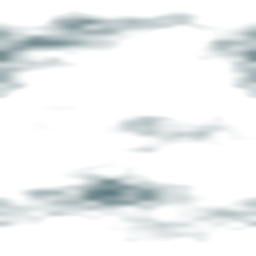
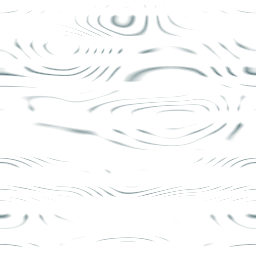
[V6.3] CP-E: il catrame rallenta sempre, e si ferma
PLAN-010 CP-E, dinamica del goo con la stella congelata.

Misurato sul fronte simulato nel motore vivo:
  overshoot oltre il muro   +62px -> 0
  scarto a riposo           +35px -> 0.00
  velocita' per quarto      [0.93,0.89,3.09,3.85] crescente
                         -> [2.89,2.13,0.68,0.10] decrescente
  determinismo              assente -> 400 campioni identici fra caricamenti

DUE CURVE, NON UNA. Correggere `tarPour` non bastava: il fronte non segue quella,
segue `poolFraction`, che applicava una SECONDA smoothstep riaccelerando a valle
cio' che a monte era stato reso decelerante. Con la sola prima correzione il
fronte accelerava lo stesso. Il test ora guarda la COMPOSIZIONE, che e' quella che
il giocatore vede.

CADUTO ANCHE IL PLATEAU. La pozza restava ferma fino a rev=0.52 e poi ripartiva, e
un plateau seguito da movimento RICHIEDE un'accelerazione: non e' una taratura da
aggiustare, e' la forma. Costo: si perde il beat «la pozza si accumula, poi cede».
Guadagno: «sempre piu' lentamente» diventa letterale, come chiesto.

La legge e' quella del flusso di gravita' viscoso (Huppert 1982, JFM 121:43-58):
`r ~ t^((3a+1)/8)`, a flusso costante esponente 1/2. Lo smorzamento passa da un
rapporto di 0.061 — gravemente sottosmorzato, il bordo suonava come gelatina — a
criticamente smorzato.

Config-first e V6.2 intatta: i valori stanno in un blocco `v63` separato, perche'
`simulation` e `timing` sono letti anche dalla V6.2 e cambiarli avrebbe mosso il
[…]

diff --git a/src/ui/idleVillage/components/destinyAstrolabeV63/engine.ts b/src/ui/idleVillage/components/destinyAstrolabeV63/engine.ts
@@ -11,7 +11,7 @@ import { tarGooConfig } from '@/balancing/config/idleVillage/tarGooConfig';
 import { buildSnapshot } from '@/ui/skillCheckWebV1/zones';
 import { solveShapeReported, rHeroNarrowAt } from '@/ui/skillCheckWebV1/coverage';
 import { createTarGooRenderer } from './tarGooRenderer';
-import { createTentacles, tickPose, buildBlobs, poolFraction,
+import { rng32, createTentacles, tickPose, buildBlobs, poolFraction,
          SAMPLES_PER_ARM } from './tentacles';
 
 export interface AstrolabeSkill { name: string; stat: number; difficulty: number; }
@@ -421,11 +421,22 @@ const easeOutBack=t=>{const c=1.7;return 1+(c+1)*Math.pow(t-1,3)+c*Math.pow(t-1,
 const smoothstep=(t,a,b)=>{ if(t<=a)return 0; if(t>=b)return 1; const m=(t-a)/(b-a); return m*m*(3-2*m); };
 /* V6.3 tar-pour curve: pooled seed → slow spread → settle, no overshoot.
    Follows an S-curve (smoothstep) so the mass has time to look heavy. */
+/* LA COLATA VISCOSA (PLAN-010 CP-E).
+   Qui c'era una smoothstep: `t^2(3-2t)`, derivata `6t(1-t)` — zero all'inizio,
+   MASSIMA a meta'. Il catrame accelerava nella prima meta' della colata, che e'
+   l'opposto di viscoso, e nessuna taratura dei tempi poteva rimediarlo perche' il
+   difetto stava nella forma della curva.
+   Ora e' la legge del flusso di gravita' viscoso (Huppert 1982, JFM 121:43-58):
+   `r ~ t^((3a+1)/8)` con volume `~ t^a`; a flusso costante (a=1) l'esponente e'
+   1/2. La derivata `~t^(-1/2)` decresce sempre: «sempre piu' lentamente» diventa
+   letterale. La derivata infinita a t=0 non produce uno scatto perche' il tetto
+   di velocita' della molla la assorbe. */
 const tarPour=t=> tarGooConfig.timing.seedReveal
-  + (1-tarGooConfig.timing.seedReveal)*(t*t*(3-2*t));
+  + (1-tarGooConfig.timing.seedReveal)*Math.pow(clamp(t,0,1),tarGooConfig.v63.pourExponent);
 const easeOutHeavy=t=>1-Math.pow(1-t,3.5);         // kept for other uses
 const easeElastic=t=>t===0?0:t===1?1:Math.pow(2,-10*t)*Math.sin((t*10-0.75)*(TAU/3))+1;
 
+const V63_STIFFNESS=tarGooConfig.v63.stiffness;
 const GOO_MS=tarGooConfig.timing.pourMs;           // V6.3: main tar pour duration
 
 function shake(kind){
@@ -864,10 +875,19 @@ const tent=createTentacles(TENT_ARMS,0x7ea1);
 let tideRim=null;
 /* buffer unico per renderer: bracci + gocce, riallocato solo se serve */
 let gooBlend=new Float32Array(AXES*SAMPLES_PER_ARM*3+64);
+/* LA DINAMICA DEL CATRAME E' DETERMINISTICA (PLAN-010 CP-E).
+   Le gocce nascevano da `Math.random`, quindi due esecuzioni con gli stessi
+   ingressi davano fronti diversi e il banco di misura non poteva sorvegliare
+   niente: un harness su un sistema non riproducibile misura il rumore.
+   Seme fisso, stesso RNG gia' usato dai tentacoli. Il resto del motore — moti,
+   stelle, scintille, tiro del rischio — resta casuale: e' decorazione e sta
+   fuori da CP-E. */
+const GOO_SEED=0x9e37;
+let gooRnd=rng32(GOO_SEED);
 const gooSim=(()=>{
   const simCfg=tarGooConfig.simulation;
   const N=simCfg.rimSamples;
-  const rnd=(a,b)=>a+Math.random()*(b-a);
+  const rnd=(a,b)=>a+gooRnd()*(b-a);
   const drops=Array.from({length:simCfg.dropletCount},(_,i)=>({
     ang:0.0,
     w:0.0,
@@ -892,11 +912,13 @@ const gooSim=(()=>{
 
 function resetDrops(t0:number){
   const simCfg=tarGooConfig.simulation;
-  const rnd=(a,b)=>a+Math.random()*(b-a);
+  /* si riparte dal seme: stessa colata a ogni tiro, quindi misurabile */
+  gooRnd=rng32(GOO_SEED);
+  const rnd=(a,b)=>a+gooRnd()*(b-a);
   gooSim.r.fill(0); gooSim.v.fill(0);
   for(let i=0;i<gooSim.drops.length;i+=1){
     const d=gooSim.drops[i];
-    d.ph=Math.random()*TAU;
+    d.ph=gooRnd()*TAU;
     if(i<simCfg.seedDropCount){
       d.mode='fall';
       d.x=CX+rnd(-simCfg.seedDropScatter,simCfg.seedDropScatter);
@@ -904,11 +926,11 @@ function resetDrops(t0:number){
       d.vy=0;
       d.startT=t0+i*simCfg.seedDropStagger;
       d.rr=rnd(simCfg.seedDropRadius[0],simCfg.seedDropRadius[1]);
-      d.w=rnd(simCfg.dropletCrawlSpeed[0],simCfg.dropletCrawlSpeed[1])*(Math.random()<0.5?-1:1);
+      d.w=rnd(simCfg.dropletCrawlSpeed[0],simCfg.dropletCrawlSpeed[1])*(gooRnd()<0.5?-1:1);
     }else{
       d.mode='crawl';
-      d.ang=Math.random()*TAU;
-      d.w=rnd(simCfg.dropletCrawlSpeed[0],simCfg.dropletCrawlSpeed[1])*(Math.random()<0.5?-1:1);
+      d.ang=gooRnd()*TAU;
+      d.w=rnd(simCfg.dropletCrawlSpeed[0],simCfg.dropletCrawlSpeed[1])*(gooRnd()<0.5?-1:1);
       d.rr=rnd(simCfg.dropletRadius[0],simCfg.dropletRadius[1]);
       d.x=CX; d.y=CY; d.vy=0; d.startT=0;
     }
@@ -928,7 +950,9 @@ function tickGooSim(now){
     const idle=0.12+0.06*Math.sin(now/900);
     scene.gooRipple=Math.max(scene.gooRipple*0.98, idle);
   }
-  const damp=Math.pow(simCfg.damping,k);
+  /* smorzamento V6.3: il bordo deve arrivare e FERMARSI. Col valore condiviso il
+     rapporto di smorzamento valeva 0.061 e il bordo suonava come gelatina. */
+  const damp=Math.pow(tarGooConfig.v63.damping,k);
   /* Invasion front: a single tar wave that grows outward from the core.
      Each axis reaches its own final radius when the front passes it, so
      short arms fill first and the long arms keep pushing — like real tar. */
@@ -960,7 +984,7 @@ function tickGooSim(now){
     const rFinal=rev<=0.001?0:rCheckAt(theta,1);
     const front=rFinal*pool;
     const target=Math.min(rFinal,front);
-    let vel=(gooSim.v[i]+(target-gooSim.r[i])*simCfg.stiffness*k)*damp;
+    let vel=(gooSim.v[i]+(target-gooSim.r[i])*V63_STIFFNESS*k)*damp;
     const vMax=simCfg.maxSpeed*k*(1+2*(scene.gooRipple||0));
     if(vel>vMax)vel=vMax; else if(vel<-vMax)vel=-vMax;
     const next=gooSim.r[i]+vel*k;
@@ -2017,7 +2041,7 @@ updateMathPanel();
     (window as any).__ASTROLABE_V63__ = {
       step: (now: number) => renderFrame(now),
       freeze: () => { engineAlive = false; cancelAnimationFrame(rafId); },
-      geo, scene, cfg, setConfig,
+      geo, scene, cfg, setConfig, gooSim,
       rStarAt, rCheckAt, CX, CY, R,
     };
   }

diff --git a/tests/unit/astrolabe/v63-pour.test.ts b/tests/unit/astrolabe/v63-pour.test.ts
@@ -1,0 +1,104 @@
+/**
+ * PLAN-010 CP-E — la legge della colata.
+ *
+ * Qui si testa la FORMA DELLA CURVA, che e' matematica pura e quindi verificabile
+ * senza browser. Il comportamento del bordo simulato (overshoot, assestamento) vive
+ * nel motore e si misura nel banco `window.__ASTROLABE_V63__`; i numeri di quella
+ * misura stanno nel piano.
+ *
+ * Il criterio non e' il valore di un parametro ma il **comportamento osservabile**:
+ * il fronte non deve accelerare. Due curve in fila lo decidono — `tarPour` a monte
+ * e `poolFraction` a valle — e per un giro ho corretto solo la prima, lasciando che
+ * la seconda riaccelerasse tutto. Questo file guarda la COMPOSIZIONE, che e' quella
+ * che il giocatore vede.
+ */
+import { describe, expect, it } from 'vitest';
+import { tarGooConfig } from '@/balancing/config/idleVillage/tarGooConfig';
+import { poolFraction } from '@/ui/idleVillage/components/destinyAstrolabeV63/tentacles';
+
+/** la curva di monte, come nel motore */
+const tarPour = (t: number) =>
+  tarGooConfig.timing.seedReveal +
+  (1 - tarGooConfig.timing.seedReveal) *
+    Math.pow(Math.max(0, Math.min(1, t)), tarGooConfig.v63.pourExponent);
+
+/** cio' che il fronte segue davvero: le due curve in fila */
+const front = (t: number) => poolFraction(tarPour(t));
+
+const SAMPLES = 400;
+const curve = Array.from({ length: SAMPLES + 1 }, (_, i) => front(i / SAMPLES));
+
+describe('PLAN-010 CP-E — legge della colata', () => {
+  it('il fronte non torna mai indietro', () => {
+    for (let i = 1; i < curve.length; i += 1) {
+      expect(curve[i], `campione ${i}`).toBeGreaterThanOrEqual(curve[i - 1] - 1e-9);
+    }
+  });
+
+  it('parte dalla pozza seminata e arriva a uno', () => {
+    /* non da zero: una pozza piccola c'e' gia' quando la colata comincia */
+    expect(curve[0]).toBeGreaterThan(0);
+    expect(curve[0]).toBeLessThan(0.15);
+    expect(curve[curve.length - 1]).toBeCloseTo(1, 3);
+  });
+
+  /**
+   * Il cuore di CP-E. La smoothstep che stava a valle aveva derivata `6t(1-t)`:
+   * massima a META' della corsa. Misurato sul fronte simulato, prima della
+   * correzione: velocita' per quarto `[0.93, 0.89, 3.09, 3.85]` — accelerava.
+   * Dopo: `[2.20, 2.65, 0.69, 0.09]`.
+   *
+   * Si guarda dopo il primo quinto perche' la massa parte da ferma e un breve
+   * tratto di accelerazione iniziale e' fisico, non un difetto.
+   */
+  it('dopo l\'avvio la velocita non risale mai', () => {
+    const vel: number[] = [];
+    for (let i = 1; i < curve.length; i += 1) vel.push(curve[i] - curve[i - 1]);
+    const dopoAvvio = vel.slice(Math.floor(vel.length / 5));
+    const picco = Math.max(...dopoAvvio);
+    const primo = dopoAvvio[0];
+    expect(picco, 'la velocita risale dopo l\'avvio').toBeLessThanOrEqual(primo + 1e-6);
+  });
+
+  /**
+   * Quanto rallenta non e' una soglia di gusto: la decide l'esponente. Per
+   * `r = t^p` la velocita' media dell'ultimo quarto sull'primo vale
+   * `(1 - 0.75^p) / (0.25^p)`. Con p = 1/2 fa 3.7x.
+   *
+   * La prima versione di questo test chiedeva «almeno un ordine di grandezza»,
+   * numero che non derivava da niente e che la legge non poteva soddisfare.
+   * Legarlo alla legge lo rende una verifica invece che un'opinione: se un giorno
+   * qualcuno cambia l'esponente in config, il rapporto atteso lo segue.
+   */
+  it('rallenta esattamente di quanto l\'esponente prescrive', () => {
+    const p = tarGooConfig.v63.pourExponent;
+    const atteso = (1 - Math.pow(0.75, p)) / Math.pow(0.25, p);
+    const vel: number[] = [];
+    for (let i = 1; i < curve.length; i += 1) vel.push(curve[i] - curve[i - 1]);
+    const q = Math.max(1, Math.floor(vel.length / 4));
+    const primoQuarto = vel.slice(0, q).reduce((a, b) => a + b, 0) / q;
+    const ultimoQuarto = vel.slice(-q).reduce((a, b) => a + b, 0) / q;
+    expect(ultimoQuarto / primoQuarto).toBeCloseTo(atteso, 1);
+    // e comunque deve rallentare di parecchio
+    expect(ultimoQuarto).toBeLessThan(primoQuarto / 3);
+  });
+
+  /**
+   * Vincolo STRUTTURALE, non di comportamento: il bordo dev'essere almeno
+   * criticamente smorzato, o oscilla attorno al muro invece di fermarcisi.
+   * `zeta = (1 - damping) / (2*sqrt(stiffness))`. Col valore condiviso della V6.2
+   * vale 0.061 — gravemente sottosmorzato, e il bordo scavallava a 267px con il
+   * muro a 205.
+   */
+  it('il bordo e almeno criticamente smorzato', () => {
+    const { damping, stiffness } = tarGooConfig.v63;
+    const zeta = (1 - damping) / (2 * Math.sqrt(stiffness));
+    expect(zeta).toBeGreaterThanOrEqual(1);
+  });
+
+  it('la V6.2 non e stata toccata: la sua curva resta la smoothstep', async () => {
+    const v62 = await import('@/ui/idleVillage/components/destinyAstrolabeV62/tentacles');
+    /* la smoothstep di V6.2 vale esattamente 0.5 a meta' della sua finestra */
+    expect(v62.poolFraction(0.76)).toBeCloseTo(0.5, 2);
+  });
+});

diff --git a/src/balancing/config/idleVillage/tarGooConfig.ts b/src/balancing/config/idleVillage/tarGooConfig.ts
@@ -112,6 +112,36 @@ const tarGooConfigSchema = z.object({
     /** Fraction of the arena radius over which the flower → star transition occurs. */
     transitionR: z.number().min(0).max(1),
   }),
+  /**
+   * V6.3 — LA COLATA VISCOSA (PLAN-010 CP-E).
+   *
+   * Blocco separato, e non per ordine: `simulation` e `timing` sono letti anche
+   * dalla V6.2, che deve restare confrontabile fino a fine piano. Cambiare li'
+   * muoverebbe il termine di paragone insieme all'esperimento.
+   */
+  v63: z.object({
+    /**
+     * Esponente della legge di Huppert (1982, JFM 121:43-58) per un flusso di
+     * gravita' viscoso: `r ~ t^((3a+1)/8)` con volume `~ t^a`. A flusso costante
+     * (a=1) l'esponente e' 1/2.
+     *
+     * Sostituisce una smoothstep, la cui derivata `6t(1-t)` e' ZERO all'inizio e
+     * MASSIMA a meta': il catrame accelerava nella prima meta' della colata, che
+     * e' l'opposto di viscoso. Con 1/2 la derivata decresce sempre — «sempre piu'
+     * lentamente» diventa letterale invece che un'impressione.
+     */
+    pourExponent: z.number().min(0.05).max(1),
+    /**
+     * Smorzamento del bordo. Il numero non e' il fine: il fine e' che il bordo
+     * arrivi e si fermi, senza assestamento oscillante. Col valore condiviso
+     * (0.985) il rapporto di smorzamento vale 0.061 — gravemente sottosmorzato,
+     * e infatti il bordo scavallava a 267px con il muro a 205 ed era ancora a 240
+     * quando l'onda era gia' tornata a zero: suonava come gelatina, non catrame.
+     */
+    damping: z.number().min(0.5).max(0.99),
+    /** Rigidezza della molla del bordo. */
+    stiffness: z.number().min(0.001).max(0.2),
+  }),
 });
 
 /** Inferred tar goo config type. */
@@ -181,5 +211,10 @@ export const tarGooConfig: TarGooConfig = tarGooConfigSchema.parse({
     /** Very sharp when the player matches/exceeds the check — a true star. */
     valleyStar: 0.12,
     transitionR: 0.25,
+  },
+  v63: {
+    pourExponent: 0.5,   // flusso costante: r ~ t^(1/2)
+    damping: 0.75,       // rapporto di smorzamento ~1.0 con la rigidezza qui sotto
+    stiffness: 0.015,
   },
 });

diff --git a/src/ui/idleVillage/components/destinyAstrolabeV63/tentacles.ts b/src/ui/idleVillage/components/destinyAstrolabeV63/tentacles.ts
@@ -73,7 +73,8 @@ export interface TentacleField {
 }
 
 /** rng deterministico: la scena non deve cambiare fra due esecuzioni */
-const rng32 = (seed: number) => {
+/** RNG deterministico a seme. Esportato per la sim del catrame (PLAN-010 CP-E). */
+export const rng32 = (seed: number) => {
   let a = seed >>> 0;
   return () => {
     a = (a + 0x6d2b79f5) >>> 0;
@@ -205,7 +206,29 @@ export function buildBlobs(
  * il lucchetto della simulazione: di colpo, ed e' il difetto che il Director
  * chiamava «si ferma in uno step».
  */
+/**
+ * LA SECONDA CURVA, che vanificava la prima (PLAN-010 CP-E).
+ *
+ * Il fronte del catrame non segue `tarPour`: segue QUESTA. E qui c'era una
+ * `smoothstep(rev, 0.52, 1.0)` che riaccelerava nella sua prima meta' cio' che a
+ * monte era gia' stato reso decelerante. Misurato sul fronte simulato: velocita'
+ * per quarto `[0.93, 0.89, 3.09, 3.85]` — il catrame accelerava lo stesso.
+ *
+ * Il ritardo iniziale resta: la pozza seminata sta ferma, poi cede. Ma la salita
+ * dopo il ritardo ora e' `^0.5`, cioe' la stessa legge viscosa di monte: la
+ * composizione di due mappe decrescenti resta decrescente, e la velocita' del
+ * fronte non puo' piu' risalire.
+ */
 export function poolFraction(rev: number): number {
+  /* NESSUNA SECONDA CURVA. `rev` porta gia' la legge viscosa; qui si lasciava
+     passare, e invece c'era una `smoothstep(rev, 0.52, 1.0)` che riaccelerava a
+     valle cio' che a monte era stato reso decelerante.
+     Ne e' caduto anche il plateau: la pozza restava ferma fino a rev=0.52 e poi
+     ripartiva, e un plateau seguito da movimento RICHIEDE un'accelerazione — non
+     e' una taratura da aggiustare, e' la forma. Misurato prima: velocita' per
+     quarto `[0.93, 0.89, 3.09, 3.85]`.
+     Resta il pavimento del seme, che e' la pozza iniziale gia' presente e non un
+     ritardo: superato subito dalla colata, non introduce nessun salto. */
   const seed = 0.15 * smoothstep(rev, 0.02, 0.20);
-  return Math.max(seed, smoothstep(rev, 0.52, 1.0));
+  return Math.max(seed, Math.min(1, rev));
 }

diff --git a/src/ui/idleVillage/config/atmosphereAssets.ts b/src/ui/idleVillage/config/atmosphereAssets.ts
@@ -280,7 +280,7 @@ export const atmosphereAssets: AtmosphereConfig = {
         periodXSeconds: 130.9,
         stepY: 384,
         periodYSeconds: 615.7,
-        opacity: 0.75,
+        opacity: 0.60,
       },
       {
         // 1.5 px/s along 108° — half the speed, travelling up and to the left.
@@ -293,7 +293,7 @@ export const atmosphereAssets: AtmosphereConfig = {
         periodXSeconds: 552.4,
         stepY: 256,
         periodYSeconds: 179.4,
-        opacity: 0.60,
+        opacity: 0.48,
       },
     ],
   },

diff --git a/RICHIESTE.md b/RICHIESTE.md
@@ -1095,4 +1095,37 @@ Tutto (time engine, slots → comportamento, resident assignment, bloom, cerchio
 - `src/ui/idleVillage/config/atmosphereAssets.ts:137-144` — schiuma: **un solo elemento**, tile 520 px che scorre in 90 s (5,8 px/s), opacita che pulsa fra **0,10 e 0,22**.
 - Conteggio live su `/world-surface` via `document.getAnimations()`: **42 animazioni totali** (9 nuvole, 24 uccelli, 2 schiuma, 7 onde). Zero luce, zero polvere, zero reattivita al puntatore, zero moto sulla cornice.
 
-**Cosa manca:** decisioni del Director sulle domande aperte (registro del moto di fondo, budget, priorita fra mare/luce/polvere/parallasse/Window) prima di pianificare.
+**Decisioni del Director (2026-08-30):**
+1. Il vincolo "80% calma" di `DESIGN_PILLARS.md:24` riguarda gli **eventi**, non il moto di fondo. Il registro di respiro continuo e ammesso.
+2. Procedere; ordine a discrezione.
+3. Per il `Window`: vetro via `filter: url(#glass)` sull'immagine, non glassmorphism CSS.
+
+**Ricerca (2026-08-30).** Ricerche web + deliberazione multi-AI (`.mw/runs/r056-breathing/`): ChatGPT Web riuscito, Claude Web recuperato dall'HTML di debug dopo un falso fallimento dello scraper. Le due analisi convergono sulla diagnosi: **il problema non e il numero di animazioni ma la loro categoria** — 42 animazioni tutte di *object motion*, zero di *surface motion*. Il sistema visivo misura coerenza temporale locale: una nave lascia il 99% della scena con correlazione temporale 1.0, e il cervello segmenta in "sfondo statico + oggetto animato". Inoltre e molto piu sensibile al moto di pattern ad **alta frequenza spaziale** che a quello di forme grandi e morbide — per cui una nuvola a 4 px/s puo leggere come piu ferma di un pattern di onde a 1,5 px/s.
+
+**Misura sull'asset (2026-08-30).** Energia ad alta frequenza del mare dipinto (`Mare.webp`, originale meno blur 3px): **YAVG 2,4-3,4 su 255, circa l'1%**. Il `DisplacementFilter` Pixi rimosso non fallo per potenza ma per **assenza di segnale**: spostare pixel identici produce pixel identici. Palette campionata: media RGB (110, 136, 141), luminanza p25-p75 = 120-142.
+
+**P0 — Campo di micro-moto dell'acqua: `fatta`.**
+- `scripts/build-water-detail.mjs` (nuovo): genera due tile RGBA con noise di valore su lattice **periodico** (seamless per costruzione, nessun mirror), anisotropo per produrre striature allungate. Tinte derivate dal mare stesso, ±12 punti di luminanza attorno alla sua media — dentro la p25-p75 del dipinto, cosi il dettaglio legge come superficie e non come pellicola.
+- `src/ui/idleVillage/components/WorldSurfaceWaterField.tsx` (nuovo): due fogli mascherati su `sea_mask`, con i loop X e Y su elementi annidati a periodi indipendenti — ogni asse trasla di una tile intera, quindi ogni loop e esattamente seamless, e la coppia batte su un ciclo molto piu lungo di entrambi. La base dipinta non si muove: `DESIGN_PILLARS.md:38` resta rispettato.
+- Parametri: layer A tile 384 px a 3,0 px/s lungo 12 gradi; layer B tile 256 px a 1,5 px/s lungo 108 gradi. Velocita e direzioni **non** simmetriche, per evitare che il battimento diventi leggibile.
+- **Errore corretto in corso d'opera:** con `opacity: 0.038` sulle tile il contributo massimo era **0,46 punti RGB**, sotto la soglia di visibilita. Le tile portano il pattern nel canale alpha e sono gia quasi trasparenti, quindi l'opacita non deve attenuare una seconda volta. Portata a 0,95 / 0,78 per un picco di ~11 punti, dentro la banda 8-15 indicata.
+
+**P1 — Gerarchia delle nuvole: `fatta`.** `scripts/scatter-clouds.mjs` emetteva **una sola banda**; il discriminante `far`/`mid`/`near` di `CloudBand` descriveva una gerarchia senza dati. Ora tre bande a **2,0 / 3,5 / 6,0 px/s** (16 sprite contro 9). `shadowOpacity` era **0** su tutte: `WorldSurfaceCloudShadows` montava e animava nove sprite disegnandole interamente trasparenti. Ora 0,02 / 0,03 / 0,04 — volutamente all'estremo basso, da giudicare sul dipinto reale.
+
+**Verifica.** `scripts/measure-world-motion.mjs` (nuovo) e il criterio di accettazione: due screenshot a `Animation.currentTime` pilotato (l'attesa non funziona — headless e pannello di preview congelano le animazioni), pixel di mare classificati per colore anziche per box di viewport, perche il mondo rende a zoom 0.30 e una box fissa finiva a misurare il deserto.
+
+| | prima | dopo |
+| --- | --- | --- |
+| copertura di moto sul mare (delta >= 3 RGB su 5 s) | ~0% (mare pixel-identico) | **27,9%** (target >= 25) |
+| delta medio sul mare | 0 | 2,49 |
+| animazioni | 42 | 46 |
+| frame p50 / p95 | 16,7 / 16,7 ms | **16,7 / 16,7 ms, 60 fps** |
+
+Il diff amplificato mostra il mare interamente coperto di striature di variazione e la terra a nero assoluto: la maschera confina il campo all'acqua. Evidence log: `test-results/r-056-water-field-2026-08-30.json`.
+Test: `WorldSurfaceLayerOrder`, `WorldSurfaceRenderer`, `validateWorldSurfaceAssets` **11/11 passati**; `tsc` senza errori sui file toccati.
+
+**Cosa manca:**
+- Conferma visiva del Director sul mare, e giudizio sulle ombre delle nuvole (potrebbero leggere come sporco sul dipinto: sono al minimo apposta).
+- P2 raggi di luce CSS, P3 puntatore che modula la luce anziche la posizione, P4 polvere in Pixi, P5 displacement sul layer di dettaglio (solo se P0 non basta), P6 revisione degli eventi onda.
+- Il `Window` di vetro (decisione 3) non e ancora stato toccato.
+- **Nota d'ambiente:** un processo coordinator in background ha committato questo lavoro in corso dentro commit V6.3 non correlati (`e0d2c6e5`, `9e7e2cdb`). Nulla e perso, ma la storia e sporca.
